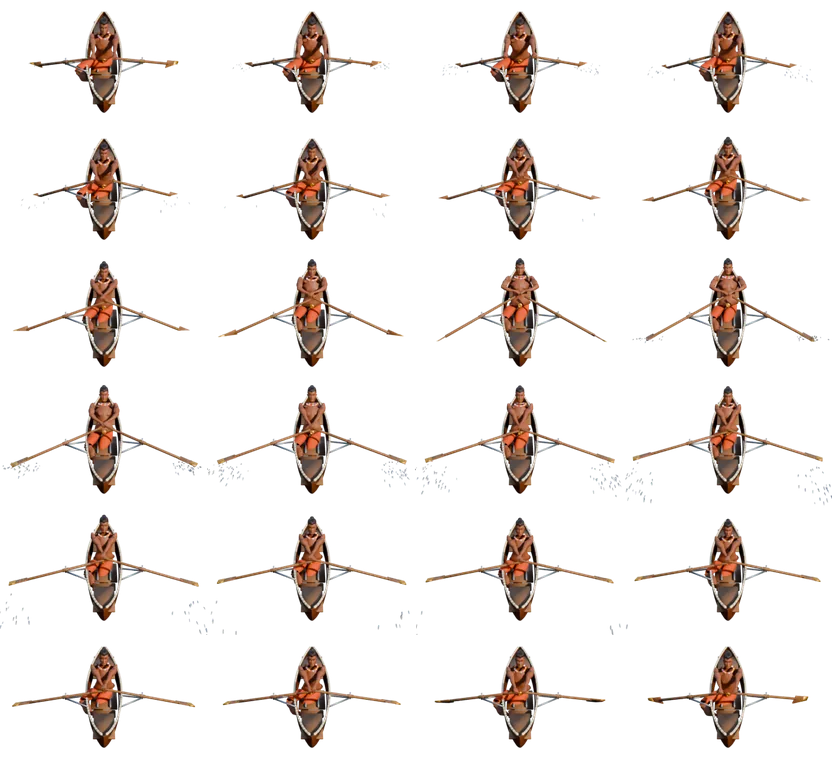
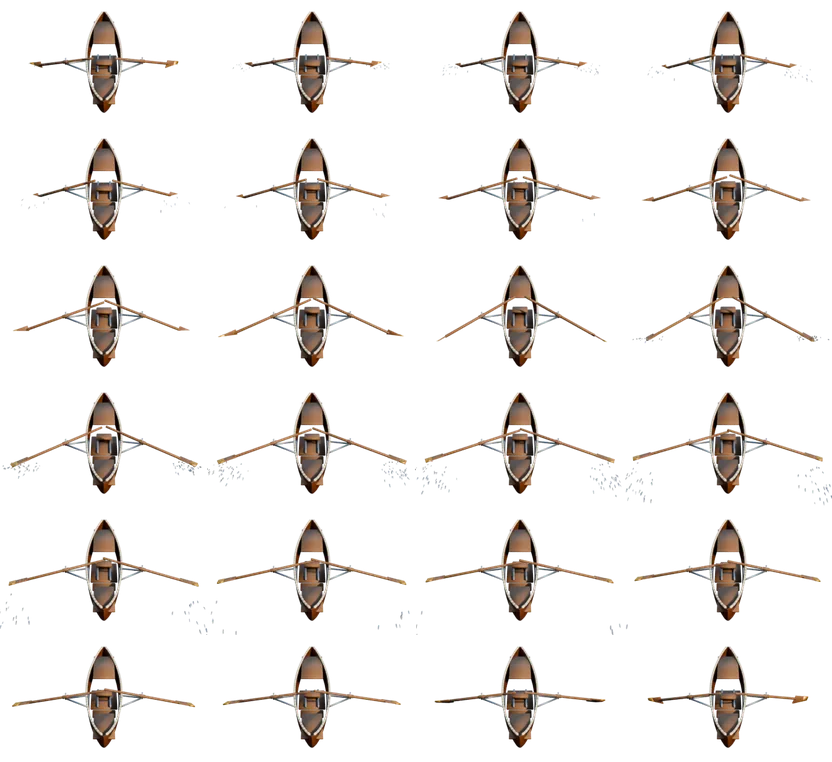
Remero recto sobre la barca inclinada en las calles laterales (0.58.1) (#54)
* v0.44.0: modo remo usable y arreglos rápidos (etapa 3)

- Horizontal, vista de carrera: una columna derecha con watts, tres casillas
  (split y las posiciones 1 y 3 de su tipo de sesión) y botones con icono;
  etiquetas cortas fijas (Pulso, m/pal, Dist., g/min) que no se cortan.
- Salir del modo remo pasa a la cabecera con un icono «contraer»; la fila de
  abajo queda Terminar · Pausar · Vista. «Vista» ya no se pone dorado.
- Calentamiento, enfriamiento, fondo y bloques suaves fuera de rango: aviso
  ámbar sin latido (en Entrenar, números y rango); el rojo queda para intervalos.
- El resumen dice «Tus watts parecieron de…» y nombra el plan cuando no
  coinciden (se guarda tipoPlan en la sesión).
- «¿Terminar?» en una línea, un solo reloj de salida («En la salida»), meta
  del rango en blanco y verde solo dentro, anillo pegado a su texto y total
  de puntos de hoy en vez de «Fue./Agi.», indicador corto en la vista de
  carrera, cabecera sin repetir los «fin ≈» y gráfica del plan de 96 px.
- Pruebas: título del resumen (unitaria) y en e2e ningún texto cortado en
  las cuatro vistas del modo remo en vertical, horizontal y horizontal bajo.

Claude-Session: https://claude.ai/code/session_01YU6HPLHeBifvYsAm3kqgso

* v0.45.2: la meta del reto en vivo no aplasta el título en pantallas estrechas

En Entrenar, .atr-reto .cond-pts puede partirse en líneas (máximo 40 % del ancho)
y, si el título del reto ya trae los watts, la meta dice «Suma <atributo>» en vez
[…]

diff --git a/src/carrera.js b/src/carrera.js
@@ -526,10 +526,14 @@ const PIEL = '#E2B48C';
 export const REMEROS_ATLAS = {
   '3d': { w: 208, h: 127, cols: 4, n: 24, ancla: [104.0, 77.2], ppm: 53.25 },
   '2d': { w: 231, h: 163, cols: 4, n: 24, ancla: [93.2, 80.0], ppm: 39.0 },
+  // Remero solo de la vista 3D (atlas_capas.py): su celda, a la misma escala, empieza en `origen` dentro de la de la barca
+  remero3d: { w: 52, h: 86, cols: 6, n: 24, origen: [72.8, 0.0] },
 };
 // La barca de Blender mide 5,4 m: de la popa al escálamo 1,89 m y del escálamo a la proa 3,51 m.
 const BARCA_REAL = { largo: 5.4, proa: 3.51 };
 export const srcRemero = (vista, clase) => `assets/carrera/remero${vista}_${clase}.webp`;
+// En 3D la barca y el remero van en atlas separados: la barca se inclina hacia el punto de fuga y el remero, recto encima
+export const srcRemeroSolo = (clase) => `assets/carrera/remero3d_${clase}_remero.webp`;
 function celdaRemero(vista, b) {
   if (!BOTES[b.clase]) return null;
   const im = imagen(srcRemero(vista, b.clase));
@@ -537,7 +541,12 @@ function celdaRemero(vista, b) {
   const A = REMEROS_ATLAS[vista];
   // Parado, el remero espera con las palas planas (justo después del final de la palada)
   const f = Math.floor((b.spm ? b.fase : EMPUJE + 0.06) * A.n) % A.n;
-  return { im, A, f, sx: (f % A.cols) * A.w, sy: Math.floor(f / A.cols) * A.h };
+  let solo = null;
+  if (vista === '3d') {
+    solo = imagen(srcRemeroSolo(b.clase));
+    if (!solo) return null;
+  }
+  return { im, A, f, sx: (f % A.cols) * A.w, sy: Math.floor(f / A.cols) * A.h, solo };
 }
 
 // Punta de cada pala en cada fotograma del atlas (las mismas para las cinco clases): [x, y, ángulo] en píxeles de la
@@ -2395,7 +2404,7 @@ function velaReal2d(ctx, x, y, largo, ancho, b, deco, t, pxm) {
   }
 }
 
-function remero3d(ctx, P, b, { im, A, f, sx, sy }, t) {
+function remero3d(ctx, P, b, { im, A, f, sx, sy, solo }, t) {
   const q = P(b.x, b.dist - 0.4, 0);
   const q1 = P(b.x + 1, b.dist - 0.4, 0);
   if (!q || !q1) return;
@@ -2412,14 +2421,19 @@ function remero3d(ctx, P, b, { im, A, f, sx, sy }, t) {
   const pb = P(b.x, b.dist - 2.4, 0);
   const sesgo = INCLINA_CALLE * (pa && pb && Math.abs(pa.y - pb.y) > 0.5 ? (pa.x - pb.x) / (pa.y - pb.y) : 0);
   ctx.save();
-  // Se gira en lugar de sesgar: el sesgo aplastaba y estiraba al remero de las calles de los extremos
-  ctx.translate(q.x, q.y);
-  ctx.rotate(Math.atan(-sesgo));
-  ctx.translate(-q.x, -q.y);
-  ctx.drawImage(im, sx, sy, A.w, A.h, q.x - A.ancla[0] * kx, q.y - A.ancla[1] * ky, A.w * kx, A.h * ky);
+  ctx.transform(1, 0, sesgo, 1, -sesgo * q.y, 0);
+  const ox = q.x - A.ancla[0] * kx, oy = q.y - A.ancla[1] * ky;
+  ctx.drawImage(im, sx, sy, A.w, A.h, ox, oy, A.w * kx, A.h * ky);
   const palas = b.yo ? decoDe(b)?.palas : null;
-  if (palas) palasReal(ctx, '3d', f, palas, q.x - A.ancla[0] * kx, q.y - A.ancla[1] * ky, kx, ky);
+  if (palas) palasReal(ctx, '3d', f, palas, ox, oy, kx, ky);
   ctx.restore();
+  // El remero va recto encima, sin el sesgo, para que no se vea aplastado ni estirado en las calles de los extremos.
+  // El sesgo deja quieta la línea de los escálamos (q.y), así que el remero sigue sentado en su sitio.
+  if (solo) {
+    const R = REMEROS_ATLAS.remero3d;
+    const k = sesgo * (oy + (R.origen[1] + R.h * 0.75) * ky - q.y);
+    ctx.drawImage(solo, (f % R.cols) * R.w, Math.floor(f / R.cols) * R.h, R.w, R.h, ox + R.origen[0] * kx + k, oy + R.origen[1] * ky, R.w * kx, R.h * ky);
+  }
   ctx.shadowBlur = 0;
   ctx.globalAlpha = 1;
 }

diff --git a/src/pantallas/heroe.js b/src/pantallas/heroe.js
@@ -1,5 +1,5 @@
 // Héroe y tienda: personaje, nivel, atributos, árbol, tienda y paisajes.
-import { PAISAJES, VELAS, srcRemero, comprarPaisaje, comprarVelas, paisajeElegido, tienePaisaje, tieneVelas, usarPaisaje, usarEquipo } from '../carrera.js';
+import { PAISAJES, VELAS, srcRemero, srcRemeroSolo, comprarPaisaje, comprarVelas, paisajeElegido, tienePaisaje, tieneVelas, usarPaisaje, usarEquipo } from '../carrera.js';
 import * as CB from '../coleccion-bote.js';
 import * as H from '../historial.js';
 import { hablar } from '../voz.js';
@@ -666,7 +666,7 @@ export function precargarRecursos() {
   const archivos = archivosDePaisajes(per);
   // Tu remero realista en la carrera 2D y 3D (los de los rivales se descargan cuando salen)
   const clave = per.clase ? J.claseDe(per.clase)?.clave : null;
-  if (clave) archivos.push(srcRemero('3d', clave), srcRemero('2d', clave));
+  if (clave) archivos.push(srcRemero('3d', clave), srcRemeroSolo(clave), srcRemero('2d', clave));
   if ((!per.clase && !archivos.length) || !('serviceWorker' in navigator)) return;
   navigator.serviceWorker.ready.then((r) => r.active?.postMessage({ tipo: 'precargar', clase: per.clase || null, archivos })).catch(() => {});
 }

diff --git a/src/version.js b/src/version.js
@@ -1,2 +1,2 @@
 // Versión de la app: la misma que la caché del service worker (sw.js). Súbela al publicar cambios.
-export const VERSION = '0.58.0';
+export const VERSION = '0.58.1';

diff --git a/tools/blender/remo_agua/atlas_capas.py b/tools/blender/remo_agua/atlas_capas.py
@@ -1,0 +1,56 @@
+# Empaqueta las capas de la vista 3D de la carrera (remo_agua.py --camara carrera3d --sprite --capa barca|remero) en dos
+# atlas por clase: la barca con los remos (misma celda y ancla que REMEROS_ATLAS['3d']) y el remero solo, recortado a
+# su caja. carrera.js inclina la barca hacia el punto de fuga y pinta encima al remero recto, sin deformarlo.
+# Uso: python3 tools/blender/remo_agua/atlas_capas.py DIR assets/carrera [escala]
+#   DIR tiene carrera3d_barca_<clase> y carrera3d_remero_<clase>, cada una con frames/ y carrera.json
+# Imprime los bloques '3d' y 'remero3d' de REMEROS_ATLAS.
+import sys, os, json, math
+import numpy as np
+from PIL import Image
+
+ent, sal = sys.argv[1], sys.argv[2]
+escala = float(sys.argv[3]) if len(sys.argv) > 3 else 1.0
+CLASES = ('vikingo', 'pirata', 'samurai', 'polinesio', 'romano')
+
+
+def cargar(capa):
+    ims = {}
+    for c in CLASES:
+        d = os.path.join(ent, f'carrera3d_{capa}_{c}', 'frames')
+        ims[c] = [Image.open(os.path.join(d, f)).convert('RGBA') for f in sorted(os.listdir(d)) if f.endswith('.png')]
+    return ims
+
+
+def caja(listas):
+    alfa = np.max([np.asarray(i)[:, :, 3] for l in listas for i in l], axis=0)
+    ys, xs = np.nonzero(alfa > 10)
+    return max(xs.min() - 2, 0), min(xs.max() + 3, alfa.shape[1]), max(ys.min() - 2, 0), min(ys.max() + 3, alfa.shape[0])
+
+
+def empaquetar(ims, x0, x1, y0, y1, nombre):
+    w, h = round((x1 - x0) * escala), round((y1 - y0) * escala)
+    n = len(ims[CLASES[0]])
+    cols = min(n, max(1, round(math.sqrt(n * h / w))))
+    cols = math.ceil(n / math.ceil(n / cols))
+    filas = math.ceil(n / cols)
+    for c in CLASES:
+        atlas = Image.new('RGBA', (cols * w, filas * h))
+        for i, im in enumerate(ims[c]):
+            atlas.paste(im.crop((x0, y0, x1, y1)).resize((w, h), Image.LANCZOS), ((i % cols) * w, (i // cols) * h))
+        ruta = os.path.join(sal, nombre.format(c=c))
+        atlas.save(ruta, 'WEBP', quality=82, method=6, alpha_quality=85)
+        print(ruta, atlas.size, os.path.getsize(ruta), 'bytes', file=sys.stderr)
+    return w, h, cols, n
+
+
+barca, remero = cargar('barca'), cargar('remero')
+meta = json.load(open(os.path.join(ent, f'carrera3d_barca_{CLASES[0]}', 'carrera.json')))
+# La celda de la barca abarca las dos capas (como el atlas de antes); la del remero, solo su caja
+bx0, bx1, by0, by1 = caja(list(barca.values()) + list(remero.values()))
+rx0, rx1, ry0, ry1 = caja(list(remero.values()))
+w, h, cols, n = empaquetar(barca, bx0, bx1, by0, by1, 'remero3d_{c}.webp')
+rw, rh, rcols, _ = empaquetar(remero, rx0, rx1, ry0, ry1, 'remero3d_{c}_remero.webp')
+print(json.dumps({
+    '3d': {'w': w, 'h': h, 'cols': cols, 'n': n, 'ancla': [round((meta['ancla'][0] - bx0) * escala, 1), round((meta['ancla'][1] - by0) * escala, 1)], 'ppm': round(meta['ppm'] * escala, 2)},
+    'remero3d': {'w': rw, 'h': rh, 'cols': rcols, 'n': n, 'origen': [round((rx0 - bx0) * escala, 1), round((ry0 - by0) * escala, 1)]},
+}))

diff --git a/tools/blender/remo_agua/remo_agua.py b/tools/blender/remo_agua/remo_agua.py
@@ -21,6 +21,8 @@ ap.add_argument('--muestras', type=int, default=64)
 ap.add_argument('--camara', default='lado', choices=('lado', 'vertical', 'cine', 'popa', 'cerca', 'retrato', 'lateral', 'arriba', 'manos', 'carrera3d', 'cenital'))
 ap.add_argument('--paisaje', default='fiordo')
 ap.add_argument('--sprite', action='store_true', help='solo barca y remero sobre fondo transparente (rivales de la carrera)')
+ap.add_argument('--capa', default='todo', choices=('todo', 'remero', 'barca'),
+                help='con --sprite: solo el remero (la barca y los remos tapan sin verse) o solo la barca y los remos')
 ap.add_argument('--clase', default='vikingo', choices=('vikingo', 'pirata', 'samurai', 'polinesio', 'romano'),
                 help='ropa del remero y pintura de la barca (clases.py)')
 ap.add_argument('--remo-corto', action='store_true', help='remos acortados para que quepan en los carriles de la carrera 2D y 3D')
@@ -829,6 +831,26 @@ if A.sprite:
     nt.links.new(nt.nodes.new('ShaderNodeHoldout').outputs[0], nt.nodes['Material Output'].inputs['Surface'])
     corte.data.materials.append(m_corte)
     corte.visible_shadow = False
+    # Capas: el remero y la barca por separado, para que carrera.js incline la barca hacia el punto de fuga sin
+    # deformar al remero. El remero es todo lo que cuelga del esqueleto o se deforma con él.
+    def _del_remero(o):
+        p = o
+        while p:
+            if p == rig:
+                return True
+            p = p.parent
+        return any(m.type == 'ARMATURE' and m.object == rig for m in getattr(o, 'modifiers', []))
+    if A.capa != 'todo':
+        for o in esc.objects:
+            if o.type not in ('MESH', 'CURVE', 'SURFACE', 'META', 'FONT') or o.hide_render or o == corte:
+                continue
+            if A.capa == 'barca' and _del_remero(o):
+                o.hide_render = True
+            elif A.capa == 'remero' and not _del_remero(o):
+                if o.name == 'Gotas':
+                    o.hide_render = True
+                else:
+                    o.is_holdout = True
 if CARRERA:
     CARRERA.update({'clase': A.clase, 'paso': A.paso})
     json.dump(CARRERA, open(os.path.join(SAL, 'carrera.json'), 'w'))

diff --git a/CHANGELOG.md b/CHANGELOG.md
@@ -2,10 +2,13 @@
 
 Lo que cambia en cada versión de Rower. La versión de la app vive en `src/version.js`; esta lista empieza siempre por esa versión (lo comprueba `pruebas/version.test.mjs`).
 
+## 0.58.1 · 2026-11-05
+
+- En 3D, los botes de las calles de los extremos vuelven a inclinarse hacia el punto de fuga, pero el remero va recto encima: la barca y el remero se pintan por separado, así el remero ya no se ve aplastado.
+
 ## 0.58.0 · 2026-11-05
 
 - En la carrera 3D y 2D, las palas de tu colección se ven en la barca realista: tus remos llevan la pintura de la pieza (los escudos vikingos, las calaveras piratas, la laca roja samurái, las olas talladas polinesias o los rayos de la legión) en cada momento de la palada.
-- En 3D, los botes de las calles de los extremos se giran hacia el punto de fuga en lugar de inclinarse, así los remeros ya no se ven aplastados ni estirados.
 
 ## 0.57.0 · 2026-11-05
 
